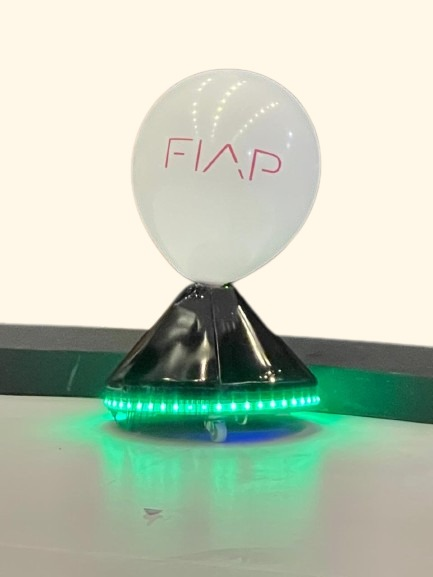
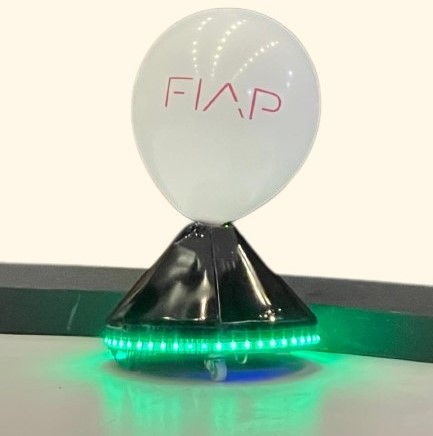
Add files via upload

diff --git a/pages/empresa.html b/pages/empresa.html
@@ -57,7 +57,7 @@
                         <a class="nav-link" href="#diferenciais">Diferenciais</a>
                     </li>
                     <li class="nav-item">
-                        <a class="nav-link" href="#entenda">Entenda</a>
+                        <a class="nav-link" href="#entenda">Mercado</a>
                     </li>
                 </ul>
             </div>
@@ -91,7 +91,7 @@
                 <div class="row">
                     <div class="col-md-12 d-flex justify-content-center align-items-center">
                         <img src="../images/galeria/pngrobotop.png" alt="Desenho sobre design centrado no humano"
-                            class="img-fluid">
+                            class="img-fluid m-negative">
                     </div>
 
                     <figure class="text-center">
@@ -103,20 +103,6 @@
                             Felipe Cortez <cite title="Source Title">sobre o desenvolvimento do robô Demirval</cite>
                         </figcaption>
                     </figure>
-                    <!-- <div class="col-md-6 my-3">
-                        <div class="row d-flex align-items-center justify-content-center">
-                            <h3 class="mb-3">Queremos que você viva a robótica</h3>
-                            <p class="lead">"Quando o projeto começou, não imaginavámos o quão longe iriamos, mas a realização de trabalho concluído é muito satisfátoria."
-                            </p>
-                            <h4 class="text-end">-Felipe Cortez</h4>
-                            <p class="lead mt-2">"O projeto de desenvolver um robô te faz pensar muito além do óbvio."
-                            </p>
-                            <h4 class="text-end">-Lucas de Lima</h4>
-                            <p class="lead mt-2">"A sensação de dar vida a uma ideia nos manteu empenhados durante todo o projeto."
-                            </p>
-                            <h4 class="text-end">-Rodolfo Sanches</h4>
-                        </div>
-                    </div> -->
                 </div>
             </section>
 
@@ -178,11 +164,11 @@
                         <address>Av. Paulista, 1100</address>
                     </div>
                     <div class="col-md-4">
-                        <h5> <img src="../images/entenda/instagram (5).png" alt="Icone do Instagram"
+                        <h5> <img src="../images/icone/instagram (5).png" alt="Icone do Instagram"
                                 class="img-fluid me-2"> @Demirval</h5>
-                        <h5> <img src="../images/entenda/icons8-whatsapp-24.png" alt="Icone do whatsapp"
+                        <h5> <img src="../images/icone/icons8-whatsapp-24.png" alt="Icone do whatsapp"
                                 class="img-fluid me-2"> (11)97153-3392</h5>
-                        <h5> <img src="../images/entenda/mail.png" alt="Icone do Email" class="img-fluid me-2">
+                        <h5> <img src="../images/icone/mail.png" alt="Icone do Email" class="img-fluid me-2">
                             contato@demirval.com.br</h5>
                     </div>
                 </div>

diff --git a/css/style.css b/css/style.css
@@ -13,12 +13,6 @@
     background-color: var(--color-latte);
 }
 
-.bg-img{
-    background-image: url(../images/background/bg1.png);
-    /* background-size: contain; */
-    background-repeat: no-repeat;
-}
-
 .bg-orange{
     background-color: var(--color-orange);
     z-index: 1;
@@ -69,7 +63,7 @@
 
 /* Botões do carrossel */
 .carousel-control-next, .carousel-control-prev {
-    background-color: #000000;
+    /* background-color: #000000; */
     width: 3%;
     height: 10%;
     margin: auto;
@@ -77,22 +71,22 @@
 
 /* Botão do scroll */
 #topo {
-  display: none; /* Hidden by default */
-  position: fixed; /* Fixed/sticky position */
-  bottom: 20px; /* Place the button at the bottom of the page */
-  right: 30px; /* Place the button 30px from the right */
-  z-index: 99; /* Make sure it does not overlap */
-  border: none; /* Remove borders */
-  outline: none; /* Remove outline */
-  background-color: var(--color-black); /* Set a background color */
-  color: white; /* Text color */
-  padding: 10px 20px; /* Some padding */
-  border-radius: 10px; /* Rounded corners */
-  font-size: 18px; /* Increase font size */
+  display: none; 
+  position: fixed; 
+  bottom: 20px; 
+  right: 30px; 
+  z-index: 99; 
+  border: none; 
+  outline: none; 
+  background-color: var(--color-black); 
+  color: white; 
+  padding: 10px 20px; 
+  border-radius: 10px; 
+  font-size: 18px; 
 }
 
 #topo:hover {
-  background-color: #555; /* Add a dark-grey background on hover */
+  background-color: #555; 
 }
 
 .font-size{
@@ -101,4 +95,9 @@
 
 .transition {
     transition: all .5s;
+}
+
+/* Margem negativa para aproximação da imagem */
+.m-negative {
+    margin-top: -100px;
 }

diff --git a/pages/dados.html b/pages/dados.html
@@ -175,7 +175,7 @@
             <section id="socio"
                 class="container d-flex justify-content-center align-items-center flex-column mt-4 p-5 text-light">
 
-                <h2 class="mt-3" id="socio">Gostou da idea? Seja meu sócio!</h2>
+                <h2 class="mt-3" id="socio">Gostou da idea? Seja nosso sócio!</h2>
                 <form name="dado" id="dado" method="get" action="">
                     <div class="row my-4">
 
@@ -226,11 +226,11 @@
                         <address>Av. Paulista, 1100</address>
                     </div>
                     <div class="col-md-4">
-                        <h5> <img src="../images/entenda/instagram (5).png" alt="Icone do Instagram"
+                        <h5> <img src="../images/icone/instagram (5).png" alt="Icone do Instagram"
                                 class="img-fluid me-2"> @Demirval</h5>
-                        <h5> <img src="../images/entenda/icons8-whatsapp-24.png" alt="Icone do whatsapp"
+                        <h5> <img src="../images/icone/icons8-whatsapp-24.png" alt="Icone do whatsapp"
                                 class="img-fluid me-2"> (11)97153-3392</h5>
-                        <h5> <img src="../images/entenda/mail.png" alt="Icone do Email" class="img-fluid me-2">
+                        <h5> <img src="../images/icone/mail.png" alt="Icone do Email" class="img-fluid me-2">
                             contato@demirval.com.br</h5>
                     </div>
                 </div>
